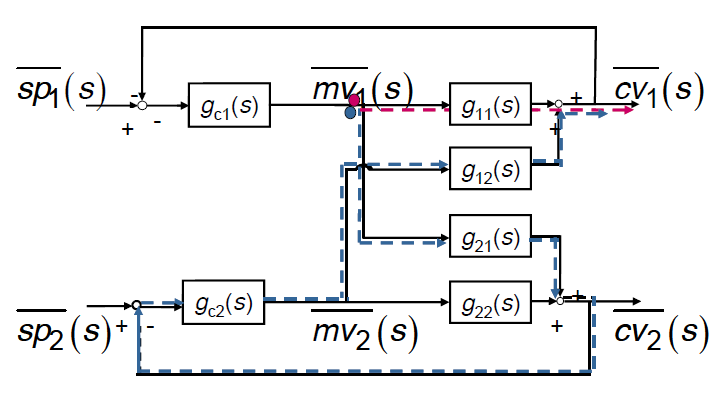
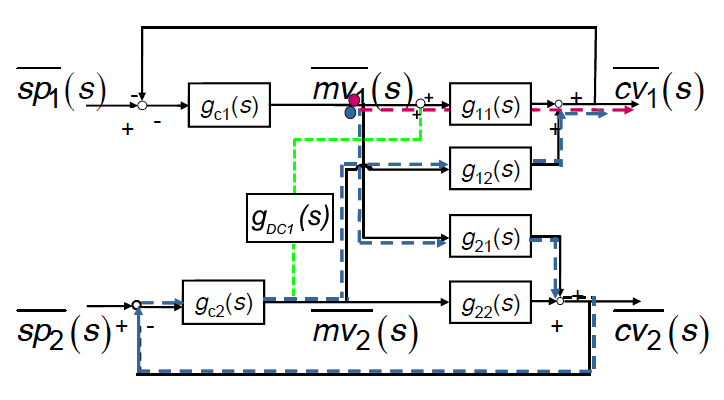
Update on Overleaf.

Changed region(s): [[0.3343, 0.24, 0.6077, 0.72]]

diff --git a/chapters/4-operation-control/3-detailedsub.tex b/chapters/4-operation-control/3-detailedsub.tex
@@ -184,16 +184,24 @@ The established controls so far have assumed that one manipulated variable (mv) 
 In principle, good control of MIMO systems requires quantitative information about the dynamics of the system to choose the best mv-cv pairings and minimise control loop interactions. This was beyond the scope of this report, however a more advanced controller design would be feasible once experimental work on a pilot scale plant was carried out to determine the dynamic responses of various mvs to the cvs.
 
 \subsubsection{Relative Gain Array}
+
+\begin{wrapfigure}{r}{0.5\linewidth}
+    \centering
+    \includegraphics[width=\linewidth]{chapters/4-operation-control/4-Figures/RGA-Thornhill-2013.png}
+    \caption{Block diagram showing the effect of changing mv1 on cv1. The direct effect of mv1 is shown via the pink path, while the indirect effect of mv1 is shown via the blue path. Image adapted from \textcite{}}
+    \label{fig:RGA-block-di}
+\end{wrapfigure}
+
 The Relative Gain Array (RGA) method decides the best control loop pairings based on the steady state gains of each mv-cv pair. This is determined by the relative gain, which is the ratio of the direct effect to the total effect of changing mv on cv (see Figure \ref{fig:RGA-block-di}). A good controller is one with the highest relative gain, because it means that the direct effect dominates over the indirect effect which allows for the fastest controller response and minimal disturbance to other cvs. However, while RGA analysis does suggest the best loop pairings, it does not present a solution to interactions between control loops due to the indirect effects of mvs on cvs.
 
 \subsubsection{Controller Decoupling}
 Decoupling controllers can be designed to reduce loop pairings which have significant indirect effects on other controlled variables. For example, the indirect effect of reboiler duty on column temperature as a consequence of changes to the reflux is likely to be significant. Significant interactions from different mv on a cv will be apparent if the relative gains of the particular cv are much lower than 1. 
 
-Decoupling controllers aim to cancel the indirect effect on a cv by sending a compensating signal through the direct path. Their design requires knowledge about the dynamic behaviour of the process, in order to deduce the transfer functions between each mv-cv pairing. This can be obtained experimentally, after which the controller transfer function needs to give an equal but opposite effect to the indirect effect. In Figure \ref{fig:RGA-block-di}, controller gDC1(s) is a detuning controller to mitigate the indirect effect of mv1 on cv1 (blue path). Equation \ref{det
+Decoupling controllers aim to cancel the indirect effect on a cv by sending a compensating signal through the direct path. Their design requires knowledge about the dynamic behaviour of the process, in order to deduce the transfer functions between each mv-cv pairing. This can be obtained experimentally, after which the controller transfer function needs to give an equal but opposite effect to the indirect effect. In Figure \ref{fig:RGA-block-di}, controller gDC1(s) is a detuning controller to mitigate the indirect effect of mv1 on cv1 (blue path), with transfer function according to Equation \ref{eqn:detuning}.
 
 \begin{equation}
 \label{eqn:detuning}
-\lambda_{ij}=\frac{(\partial y_i / \partial u_j)_u}{(\partial y_i / \partial u_j)_y}=\frac{open-loop\;gain}{closed-loop\;gain}
+g_{DC1}(s)=-\frac{g_{12}(s)}{g_{11}(s)}
 \end{equation}
 
 % relative gain equation
@@ -205,14 +213,6 @@ Decoupling controllers aim to cancel the indirect effect on a cv by sending a co
 \end{comment}
 % end comment
 
-\begin{wrapfigure}{r}{0.5\linewidth}
-    \centering
-    \includegraphics[width=\linewidth]{chapters/4-operation-control/4-Figures/RGA-Thornhill-2013.png}
-    \caption{Block diagram showing the effect of changing mv1 on cv1. The direct effect of mv1 is shown via the pink path, while the indirect effect of mv1 is shown via the blue path. Image taken from \textcite{}}
-    \label{fig:RGA-block-di}
-\end{wrapfigure}
-
-It is desirable to choose 
 
 \subsection{Safety design} %mention HAZOP recommendations
 
@@ -222,3 +222,4 @@ It is desirable to choose
 
 \subsubsection{Recommendations from LOPA} %Stephen
 %link to safety
+From the layers of protection analysis in the Safety Report, it was determined that overpressure of reactor R201 was a major hazard and that aside from the existing executive alarm and interlock, an additional safety instrumented function (SIF) with a SIL-3 rating was required. To improve the safe operation of the plant, a two-out-of-three logic system was designed 

diff --git a/chapters/5-safety-layout-environment/5-HAZOP.tex b/chapters/5-safety-layout-environment/5-HAZOP.tex
@@ -28,7 +28,7 @@ Following the review of the HAZOP study, several of the recommendations suggeste
 % \usepackage{graphicx}
 \begin{table}[]
 \centering
-\caption{Changes to P&ID}
+\caption{Changes to P\&ID}
 \label{tab:PIDchanges}
 \resizebox{\textwidth}{!}{%
 \begin{tabular}{@{}llll@{}}
